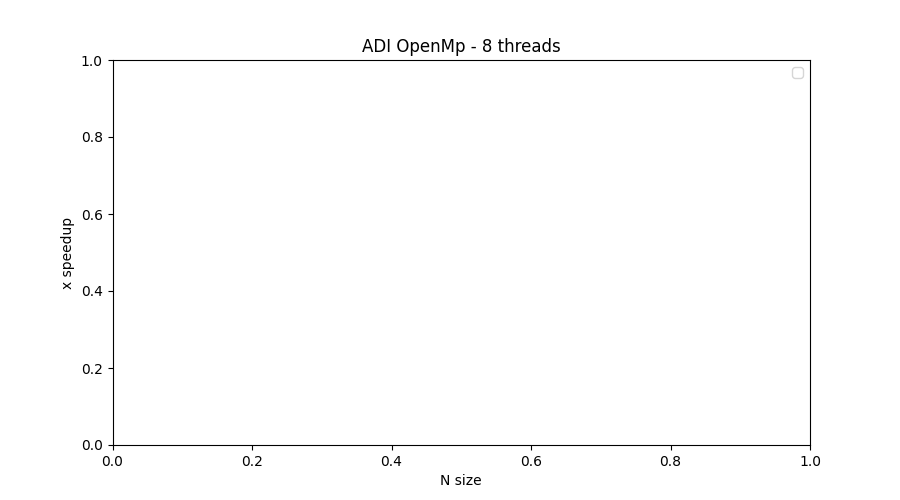
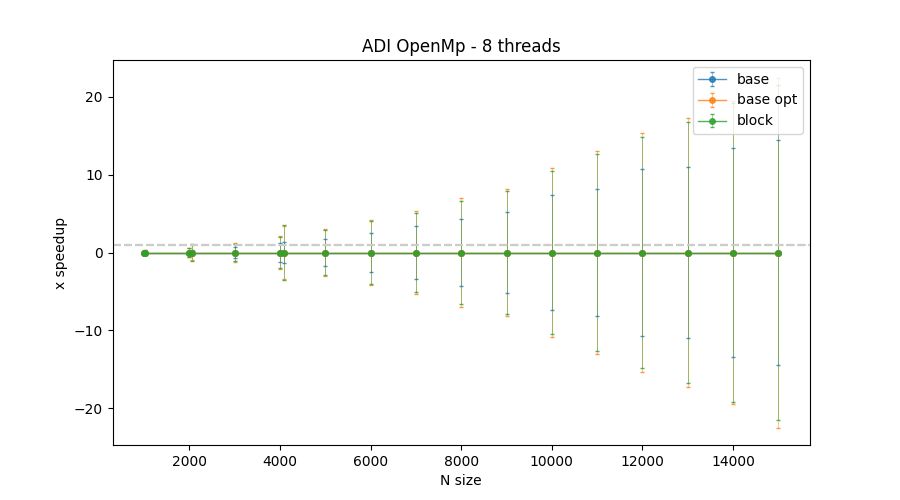
plot modifications

diff --git a/plot/adi_plot.py b/plot/adi_plot.py
@@ -9,9 +9,10 @@ directory = "plot\\results\\adi"
 mpi_implementations = [ 'mpi_1']
 cuda_implementations = ['cuda_multithreaded12', 'cuda_multithreaded4', 'cuda_multithreaded5', 'cuda_multithreaded6', 'cuda_multithreaded8', 'cuda_multithreaded9']
 serial_implementations = ['serial_block', 'serial_opt']
-open_implementations = []
+open_implementations = ['openmp_base', 'openmp_base_opt', 'openmp_block']
 implementations = ['cuda_multithreaded12', 'cuda_multithreaded4', 'cuda_multithreaded5', 'cuda_multithreaded6', 'cuda_multithreaded8', 'cuda_multithreaded9', 'mpi_1', 'serial_block', 'serial_opt']
 threads = [ '1', '2', '3','4','6','8','12','16']
+#threads = [ '6']
 N2 = ['1000', '2000', '3000', '4000','5000','6000','7000','8000','9000','10000','11000','12000','13000','14000', '15000','1024','2048', '4096' ]
 N2_c = ['1000', '2000', '3000', '4000','5000','1024','2048', '4096' ]
 data = []
@@ -34,6 +35,7 @@ for filename in os.listdir(directory):
                     temp_data['threads'] = t
                     temp_data['N'] = n2
                     temp_data['N2'] = int(n2)
+                    temp_data['tr'] = int(t)
                     temp_data['speedup'] = 0
                     temp_data['implementation'] = filename
                     temp_data['mean'] = d['timing'][0]
@@ -44,8 +46,6 @@ for filename in os.listdir(directory):
 
 df = pd.DataFrame(data)
 baseline_df = df.loc[df['implementation'] == 'serial_base']
-help = df.loc[df['implementation'] == 'mpi_1']
-print(help)
 for imp in implementations:
     if(imp in cuda_implementations):
         for nn in N2_c:
@@ -70,17 +70,19 @@ open_df = df.loc[df['implementation'].isin(open_implementations)]
 serial_df = df.loc[df['implementation'].isin(serial_implementations)]
 
 mpi_df_8 = mpi_df.loc[mpi_df['threads']=='8'] #better than 8 discuss
+mpi_df_4000 = mpi_df.loc[mpi_df['N2']==4000] #better than 8 discuss
 open_df_8 = open_df.loc[open_df['threads']=='8']
 
 mpi_df_8 = mpi_df_8.sort_values('N2')
+mpi_df_4000 = mpi_df_4000.sort_values('tr')
 cuda_df = cuda_df.sort_values('N2')
 open_df_8 = open_df_8.sort_values('N2')
 serial_df = serial_df.sort_values('N2')
 
-plot_list = [mpi_implementations, cuda_implementations, serial_implementations, open_implementations]
-df_list = [mpi_df_8, cuda_df, serial_df, open_df_8]
-filename_list = ['mpi_t_8', 'cuda', 'serial', 'open_t_8']
-title_list = ['ADI MPI - 8 processes', 'ADI cuda', 'ADI serial', 'ADI OpenMp - 8 threads']
+plot_list = [mpi_implementations, cuda_implementations, serial_implementations, open_implementations, mpi_implementations]
+df_list = [mpi_df_8, cuda_df, serial_df, open_df_8, mpi_df_4000]
+filename_list = ['mpi_t_8', 'cuda', 'serial', 'open_t_8', 'mpi_n_4000']
+title_list = ['ADI MPI - 8 processes', 'ADI cuda', 'ADI serial', 'ADI OpenMp - 8 threads', 'ADI MPI - N = 4000']
 
 for i,imp_list in enumerate(plot_list):
     fig, ax = plt.subplots(figsize=(9,5))
@@ -89,7 +91,7 @@ for i,imp_list in enumerate(plot_list):
     for j, name in enumerate(imp_list):
         helper_df = df_current.loc[df['implementation']==name]
         y = helper_df.speedup.to_numpy()
-        x = helper_df.N2.to_numpy()
+        x = helper_df.tr.to_numpy() if i > 3  else helper_df.N2.to_numpy()
         y_std = helper_df.deviation.to_numpy()
         error = y_std
         lower = y - error
@@ -110,11 +112,16 @@ for i,imp_list in enumerate(plot_list):
         # ax.plot(x, lower,  alpha=0.1)
         # ax.plot(x, upper,  alpha=0.1)
         # ax.fill_between(x, lower, upper, alpha=0.2)
-    ax.set_xlabel('N size')
+    if i > 3:
+        ax.set_xlabel('# threads')
+    else:
+        ax.set_xlabel('N size')
     ax.set_ylabel('x speedup')
     if (i!=0):
         ax.legend(loc="upper right")
     plt.title(title_list[i])
+    #plt.yticks(np.arange(-12, 12, 2))
+    #plt.ylim((-4,4))
 
     file_path = "plot\\imgs\\adi" + filename + ".png"
     plt.savefig(file_path)

diff --git a/plot/gemver_plot.py b/plot/gemver_plot.py
@@ -30,6 +30,7 @@ for filename in os.listdir(directory):
                     d = json.load(f)
                     temp_data = {}
                     temp_data['threads'] = t
+                    temp_data['tr'] = int(t)
                     temp_data['N'] = n2
                     temp_data['N2'] = int(n2)
                     temp_data['speedup'] = 0
@@ -68,16 +69,20 @@ serial_df = df.loc[df['implementation'].isin(serial_implementations)]
 
 mpi_df_8 = mpi_df.loc[mpi_df['threads']=='8'] #better than 8 discuss
 open_df_8 = open_df.loc[open_df['threads']=='8']
+mpi_df_4000 = mpi_df.loc[mpi_df['N2']== 4000] 
+open_df_4000 = open_df.loc[open_df['N2']== 4000]
 
 mpi_df_8 = mpi_df_8.sort_values('N2')
 cuda_df = cuda_df.sort_values('N2')
+mpi_df_4000 = mpi_df_4000.sort_values('tr')
+open_df_4000 = open_df_4000.sort_values('tr')
 open_df_8 = open_df_8.sort_values('N2')
 serial_df = serial_df.sort_values('N2')
 
-plot_list = [mpi_implementations, cuda_implementations, serial_implementations, open_implementations]
-df_list = [mpi_df_8, cuda_df, serial_df, open_df_8]
-filename_list = ['mpi_t_8', 'cuda', 'serial', 'open_t_8']
-title_list = ['GEMVER MPI - 8 processes', 'GEMVER cuda', 'GEMVER serial', 'GEMVER OpenMp - 8 threads']
+plot_list = [mpi_implementations, cuda_implementations, serial_implementations, open_implementations, mpi_implementations, open_implementations]
+df_list = [mpi_df_8, cuda_df, serial_df, open_df_8, mpi_df_4000, open_df_4000]
+filename_list = ['mpi_t_8', 'cuda', 'serial', 'open_t_8', 'mpi_n_4000', 'open_n_4000']
+title_list = ['GEMVER MPI - 8 processes', 'GEMVER cuda', 'GEMVER serial', 'GEMVER OpenMp - 8 threads', 'GEMVER MPI - N = 4000', 'GEMVER OpenMp - N = 4000']
 
 for i,imp_list in enumerate(plot_list):
     fig, ax = plt.subplots(figsize=(9,5))
@@ -86,7 +91,7 @@ for i,imp_list in enumerate(plot_list):
     for j, name in enumerate(imp_list):
         helper_df = df_current.loc[df['implementation']==name]
         y = helper_df.speedup.to_numpy()
-        x = helper_df.N2.to_numpy()
+        x = helper_df.tr.to_numpy() if i > 3  else helper_df.N2.to_numpy()
         y_std = helper_df.deviation.to_numpy()
         error = y_std
         lower = y - error
@@ -107,10 +112,12 @@ for i,imp_list in enumerate(plot_list):
         # ax.plot(x, lower,  alpha=0.1)
         # ax.plot(x, upper,  alpha=0.1)
         # ax.fill_between(x, lower, upper, alpha=0.2)
-    ax.set_xlabel('N size')
+    if i > 3:
+        ax.set_xlabel('# threads')
+    else:
+        ax.set_xlabel('N size')
     ax.set_ylabel('x speedup')
     ax.legend(loc="upper right")
-    # aaaaa=title_list[i]
     plt.title(title_list[i])
 
     file_path = "plot\\imgs\\gemver" + filename + ".png"
